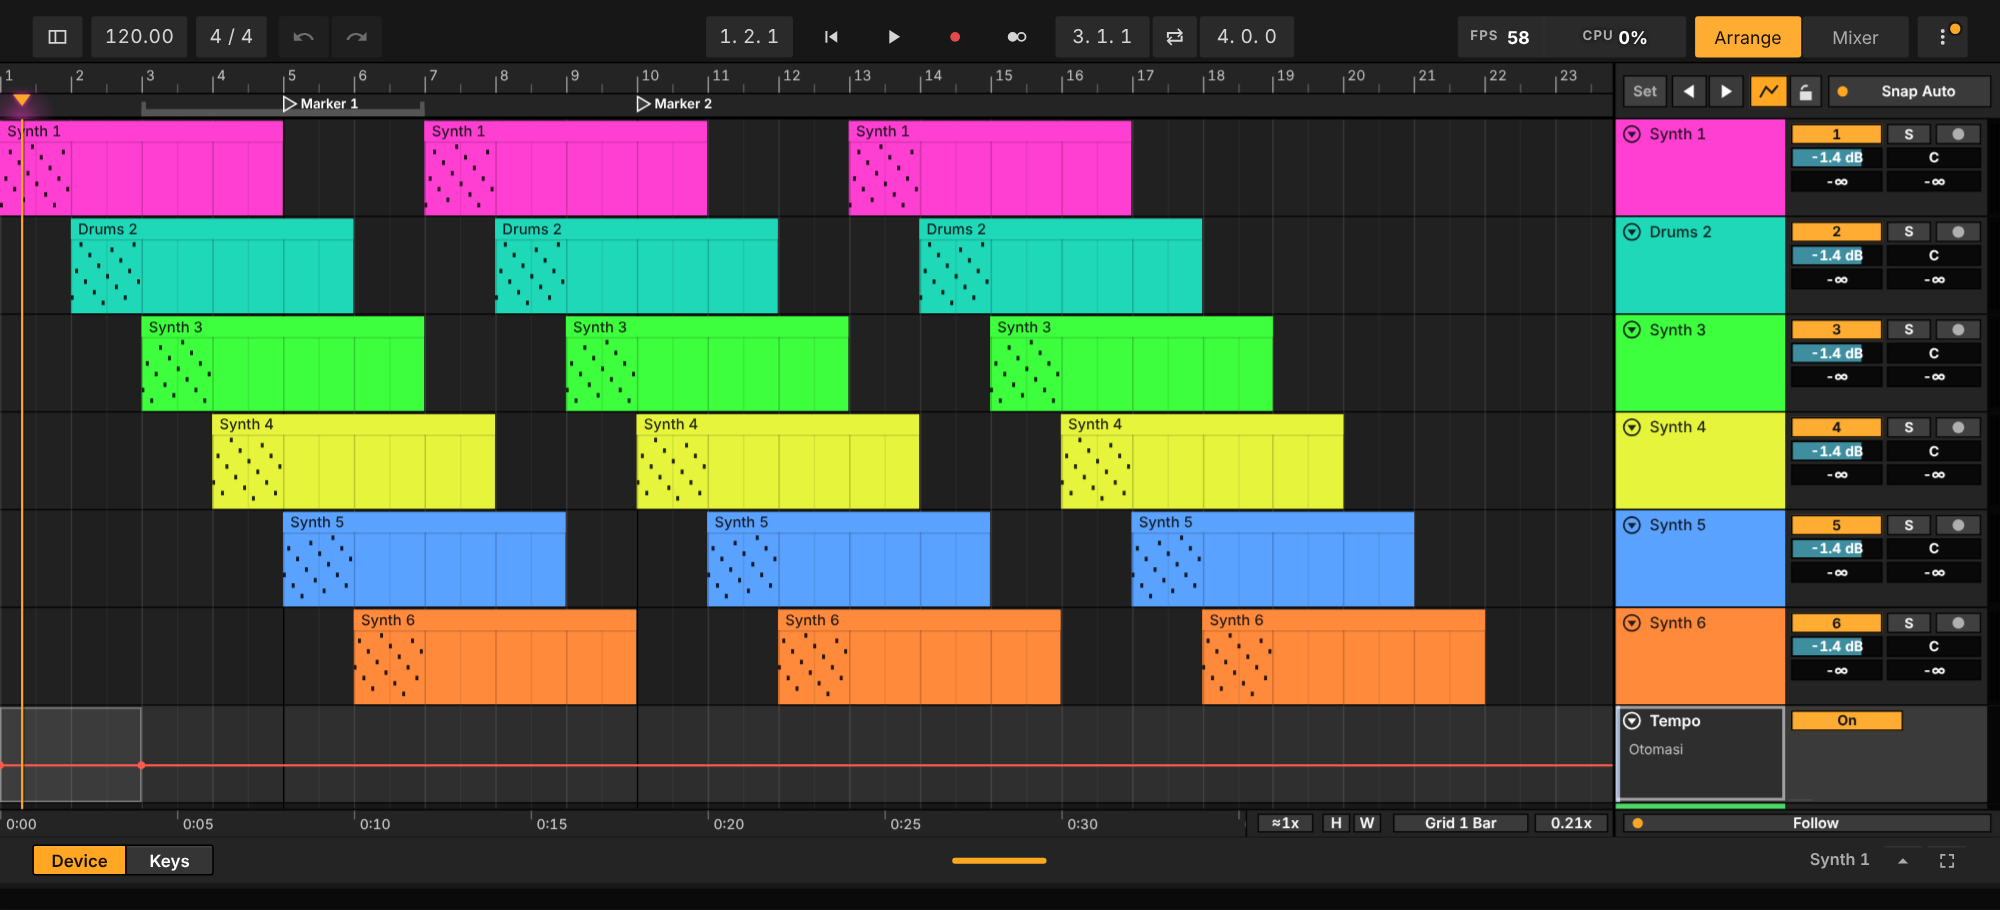
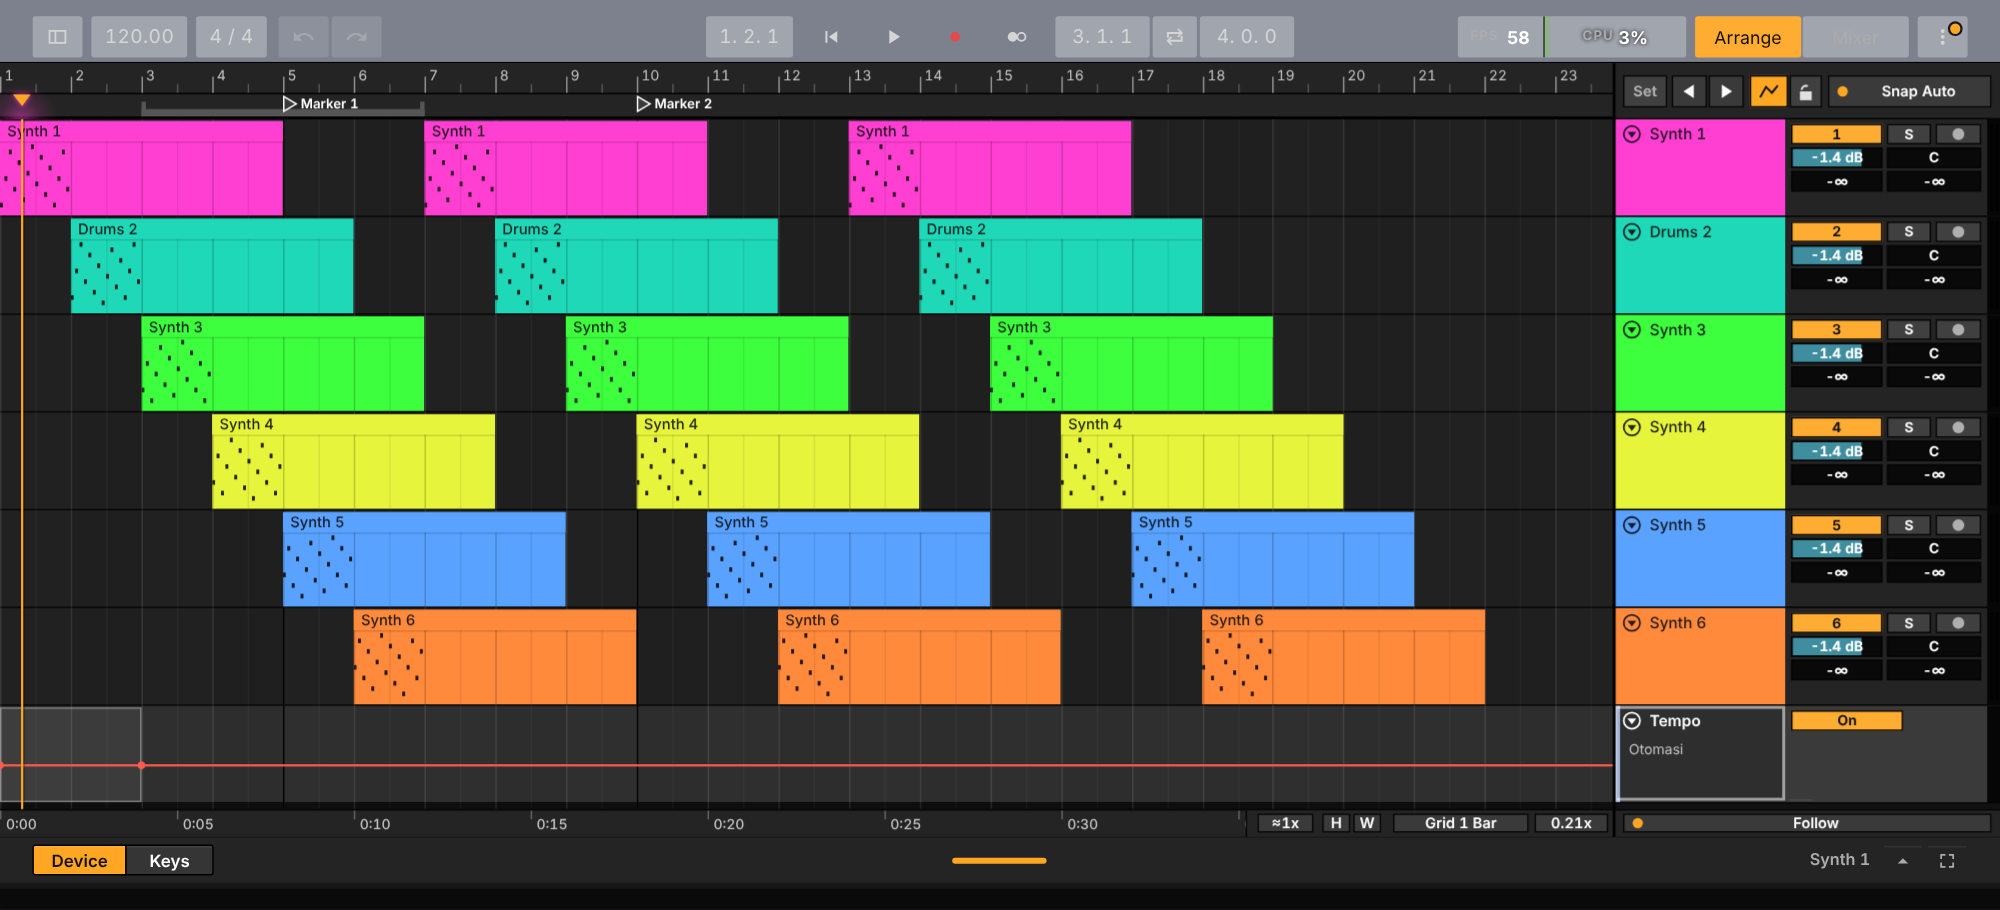
Light theme: thin dark borders and Live 12 light colours; drop area fills the room, Master/FX rows pinned at the bottom
Claude-Session: https://claude.ai/code/session_016R99TjSh2G5U2VqVgMNHhT

Changed region(s): [[0.0, 0.0, 1.0, 0.0923], [0.806, 0.8615, 0.899, 0.8923]]

diff --git a/js/timeline.js b/js/timeline.js
@@ -120,9 +120,24 @@ function laneBox(i, c) {
 }
 function laneAt(i, y) { const t = state.tracks[i], n = subN(t); if (!n) return null; const k = Math.floor((y - rowY(i) - rhMain(i)) / SUBH()); return k >= 0 && k < n ? P.subsOf(t)[k].id : null; }
 function subHdr(i, k) { const y = rowY(i) + rhMain(i) + k * SUBH(), h = SUBH(), q = Math.min(16, h - 8), R = CW + HEAD - METW - 6; return { y, h, mute: { x: R - 22, y: y + (h - q) / 2, w: 22, h: q } }; }   // t.hx = own height as a factor of the zoomed row height (drag the header's bottom edge)
-const rh = (i) => { const n = state.tracks.length; if (i >= n) return i >= n + nX() ? ADD_H : XROW_H; const t = state.tracks[i], a = fh.size ? fh.get(t.id) : undefined; return a !== undefined ? a : rowTarget(t); };
-function rowY(i) { let y = RULER - view.y0; for (let k = 0; k < i; k++) y += rh(k); return y; }
-function rowAt(y) { let a = RULER - view.y0; const n = state.tracks.length + nX(); for (let i = 0; i <= n; i++) { const e = a + rh(i); if (y < e) return i; a = e; } return n + 1; }
+// Live 12: under the tracks the "Drop Files and Devices Here" area stretches over the free room and the Master / effect-track rows sit at the
+// bottom of the lanes (no empty band below them). On screen: tracks, then the "+" row (index nn), then the Master / FX rows (indices n .. nn-1).
+const tracksH = () => { let y = 0; for (let k = 0; k < state.tracks.length; k++) y += rh(k); return y; };
+const addH = () => Math.max(ADD_H, Math.floor(LANE_B() - RULER - tracksH() - nX() * XROW_H));
+const rh = (i) => { const n = state.tracks.length; if (i >= n) return i >= n + nX() ? (i === n + nX() ? addH() : ADD_H) : XROW_H; const t = state.tracks[i], a = fh.size ? fh.get(t.id) : undefined; return a !== undefined ? a : rowTarget(t); };
+function rowY(i) {
+  const n = state.tracks.length, nn = n + nX(); let y = RULER - view.y0;
+  if (i <= n) { for (let k = 0; k < i; k++) y += rh(k); return i === n ? y + addH() : y; }
+  y += tracksH(); if (i === nn) return y;
+  return i < nn ? y + addH() + (i - n) * XROW_H : y + addH() + nX() * XROW_H;
+}
+function visRows() {                                    // rows on screen: visible tracks, then the Master / FX rows and the "+" row (not in index order on screen)
+  const n = state.tracks.length, nn = n + nX(), LB = LANE_B(), out = [], b = rowAt(LB);
+  for (let i = Math.max(0, rowAt(RULER)); i < n && i <= b; i++) out.push(i);
+  for (let i = n; i <= nn; i++) { const y = rowY(i); if (y < LB && y + rh(i) > RULER) out.push(i); }
+  return out;
+}
+function rowAt(y) { let a = RULER - view.y0; const n = state.tracks.length, nn = n + nX(); for (const i of [...Array(n).keys(), nn, ...Array.from({ length: nX() }, (_, k) => n + k)]) { const e = a + rh(i); if (y < e) return i; a = e; } return nn + 1; }
 const contentH = () => { let y = 0; for (let i = 0; i <= state.tracks.length + nX(); i++) y += rh(i); return y; };
 // Header layout of one track. FULL look: left = coloured column (the name only), right = wide grey mixer column (activator, S, arm, automation /
 // volume, pan / Send A, B / output). Controls only appear when the row is tall enough, so nothing can overlap. COMPACT look: name block + activator.
@@ -346,14 +361,14 @@ function draw() {
     ctx.fillStyle = C('#141416'); ctx.fillRect(0, y + h - 1, CW, 1);                     // Live 12 (refs/live12-official): a thin dark line between tracks
   }
   const xl = [];                                                                       // captions of the Master / effect lanes, drawn after the grid
-  for (let i = Math.max(n, rowAt(RULER)); i < nn && i <= rowAt(LB); i++) {             // Master / effect track rows: no clips, they only mix
+  for (const i of visRows()) { if (i < n || i >= nn) continue;                          // Master / effect track rows: no clips, they only mix
     const y = rowY(i), h = rh(i), x = xInfo(i);
     ctx.fillStyle = state.sel.track === x.strip ? C('#2f2f33') : C('#252527'); ctx.fillRect(0, y, CW, h);   // theme background first, so the tint below is a real transparent wash in dark AND light themes
      ctx.fillStyle = C('#141415'); ctx.fillRect(0, y + h - 1, CW, 1);
     const src = x.master ? state.tracks.filter((q) => q.kind !== 'auto' && !q.mute).length : state.tracks.filter((q) => q.out === x.k && !q.mute).length;
     xl.push({ y, h, t: `${src} track aktif → ${x.name}` });
   }
-  const gy1 = Math.min(LB, rowY(nn));                                                   // grid only over the rows, not over the "+" row and the empty space below
+  const gy1 = Math.min(LB, RULER - view.y0 + contentH());                               // Live 12: the grid runs on through the drop area and the Master / FX rows
   // grid (Live 12): flat lines in the theme's ink at four strengths - every labelled bar (the ruler's step) > bar > beat > subdivision - so a
   // zoomed-out arrangement is not striped with bright bar lines; every other labelled group a shade darker. Grid Line Intensity scales them.
   const barPx = BAR * view.ppt; let kb = 1; while (barPx * kb < 34) kb *= 2;                     // the same step as the ruler's bar numbers
@@ -554,7 +569,7 @@ function meterKey() {                        // changes whenever a visible bar w
 function drawMeters() {                      // Live: a slim stereo meter along the right edge of every track header, same scale as the mixer
   const mx = CW + HEAD - METW + 1, nn = state.tracks.length + nX();
   octx.save(); octx.beginPath(); octx.rect(CW, RULER, HEAD, LANE_B() - RULER); octx.clip();
-  for (let i = Math.max(0, rowAt(RULER)); i <= Math.min(nn - 1, rowAt(LANE_B())); i++) {
+  for (const i of visRows()) { if (i >= nn) continue;
     const s = stripOfRow(i); if (s < 0) continue;
     const hm = i < state.tracks.length && full() ? hdr(i).hm : null;
     if (hm) {                                                                     // folded row: the same meter lying flat (left = silence), L over R
@@ -665,8 +680,8 @@ function drawHeads() {
   ctx.save(); ctx.beginPath(); ctx.rect(hx, RULER, HEAD, LB - RULER); ctx.clip();
   const nn = n + nX(), lanes = new Set();
   for (const q of state.tracks) if (q.kind === 'auto' && q.target) lanes.add(q.target.strip);
-  for (let i = Math.max(0, rowAt(RULER)); i <= Math.min(nn, rowAt(LB)); i++) {
-    const y = rowY(i), h = i < n ? rhMain(i) : rh(i);
+  for (const i of visRows()) {
+    const y = rowY(i), h = i < n ? rhMain(i) : rh(i); if (y >= LB || y + h <= RULER) continue;
     if (i < n && subN(state.tracks[i])) drawSubHeads(i);
     if (i === nn) {                                                                          // "+" row: one wide button
       const r = { x: hx + 6, y: y + 8, w: HEAD - METW - 12, h: Math.min(28, h - 16) };
@@ -916,7 +931,7 @@ function hit(x, y) {
   if (Math.abs(x - CW) <= 4) return { type: 'headw' };                                         // the header column's left edge: drag = its width
   if (x >= CW) {
     const n0 = state.tracks.length;
-    if (i === n0 + nX()) return { type: 'add' };
+    if (i === n0 + nX()) return y - rowY(i) < 8 + 28 + 6 ? { type: 'add' } : { type: 'none' };   // the "+ Track" button at the top of the (stretched) drop area
     if (i < 0 || i > n0 + nX()) return { type: 'none' };
     if (i >= n0) { const xi = xInfo(i); return { type: 'xhead', x: xi, mute: !xi.master && inRect(xhdr(i).act, x, y, 3) }; }
     if (subN(state.tracks[i]) && y >= rowY(i) + rhMain(i)) { const id = laneAt(i, y), k = P.subsOf(state.tracks[i]).findIndex((s) => s.id === id); if (k >= 0) return { type: 'subhead', i, id, mute: inRect(subHdr(i, k).mute, x, y, 4) }; }
@@ -1377,7 +1392,7 @@ export function sigDialog(bar) {
 let drag = null;
 const CLIP_EDITS = new Set(['move', 'resize', 'resizeL', 'stretch', 'gmove', 'gresize', 'fadeIn', 'fadeOut']);   // drags that took a checkpoint
 // the arrangement's grid menu as Live's (Snap to Grid, Adaptive Grid widths, Fixed Grid, Narrow / Widen, Triplet Grid, zoom to fit)
-function fitHeight() { const avail = LANE_B() - RULER - ADD_H - nX() * XROW_H, used = contentH() - ADD_H - nX() * XROW_H; if (used > 0) { for (const tr of state.tracks) animRow(tr); view.rowH = clamp(view.rowH * avail / used, 30, ROW_MAX); view.y0 = 0; clampView(); invalidate(); } }
+function fitHeight() { const avail = LANE_B() - RULER - ADD_H - nX() * XROW_H, used = tracksH(); if (used > 0) { for (const tr of state.tracks) animRow(tr); view.rowH = clamp(view.rowH * avail / used, 30, ROW_MAX); view.y0 = 0; clampView(); invalidate(); } }
 function gridMenu() {
   const set = (k) => { cfg.snap = k; invalidate(); }, fi = FIXED.findIndex(([k]) => k === cfg.snap);
   const step = (d) => { const i = fi >= 0 ? fi : FIXED.findIndex(([k]) => SNAPS[k][1] <= (snapTicks() || BAR)); const j = clamp((i < 0 ? 3 : i) + d, 0, FIXED.length - 1); set(FIXED[j][0]); };

diff --git a/js/theme.js b/js/theme.js
@@ -16,17 +16,20 @@ const LIB = {
   medc:     { name: 'Dark Neutral Medium Contrast', base: 'dark', a: 10, b: 0.98 },
   // Live 12's default dark theme (refs/live12-official 01-03): the greys a little lighter and cool - lanes about #2c2e35, panels #23252a
   // Live 12's light theme (refs/live12-official 04): cool greys - lanes / ruler / header #a1a5ae, the alternate bands #989ca5
-  live12light: { name: 'Light (Live 12)', base: 'light', a: -33, b: 1.0, tint: [0, 4, 13] },
-  live12:   { name: 'Dark (Live 12)', base: 'dark', a: 10, b: 0.96, tint: [-2, 0, 12] },   // lanes / ruler #323440 as sampled from refs/live12-official/02
+  live12light: { name: 'Light (Live 12)', base: 'light', a: -33, b: 1.0, tint: [0, 4, 13], over: { '--line': '#5c5f68', '--sep': '#6e717a' } },
+  live12:   { name: 'Dark (Live 12)', base: 'dark', a: 10, b: 0.96, tint: [-2, 0, 12], over: { '--tb-bg': '#282a33', '--tb-fld': '#333540' } },   // lanes / ruler #323440 as sampled from refs/live12-official/02
   lightmc:  { name: 'Light Neutral Medium Contrast', base: 'light', a: -26, b: 1.04 },
   lightlc:  { name: 'Light Neutral Low Contrast', base: 'light', a: -8, b: 0.86 },
   midlight: { name: 'Mid Light',                base: 'light', a: -42, b: 1.0 },
   lighthc:  { name: 'Light Neutral High Contrast', base: 'light', a: -14, b: 1.1 },
   // the device panels of the owner's Ableton Live screenshots, colours measured in them: title bar #a5a5a5, body #878787, dark display #282828,
   // button face #a8a8a8 with a #515151 border, black text, orange #fdb443; the other greys follow the light theme shifted down to that body
-  ableton:  { name: 'Light (Ableton Live)',  base: 'light', a: -66, b: 1.0, over: {
-    '--lv-title': '#a5a5a5', '--lv-body': '#878787', '--lv-well': '#282828', '--lv-ctl': '#a8a8a8', '--lv-ctl2': '#b8b8b8', '--lv-ink': '#0f0f0f', '--lv-dim': '#2e2e2e', '--lv-edge': '#515151',
-    '--lv-trk': '#4e4e4e', '--lv-div': '#6a6a6a', '--lv-arc': '#62cffa', '--lv-or': '#fdb443', '--lv-orink': '#1a1100', '--dim': '#2e2e2e', '--text': '#0f0f0f' } },
+  // Light = Live 12's light theme, every value sampled from the owner's reference (refs/live12-official/04): window frame and control bar #7d818d,
+  // panels / lanes / ruler / device bodies #a1a5ae, the alternate bands #989ca5, device title bars #bbbbc5, displays #21252e, menus #dedfe3
+  ableton:  { name: 'Light (Ableton Live)',  base: 'light', a: -33, b: 1.0, tint: [0, 4, 13], over: {
+    '--lv-title': '#bbbbc5', '--lv-body': '#a1a5ae', '--lv-well': '#21252e', '--lv-ctl': '#b9bcc5', '--lv-ctl2': '#c6c9d1', '--lv-ink': '#0f1014', '--lv-dim': '#2e3038', '--lv-edge': '#7d818d',
+    '--lv-trk': '#4e525c', '--lv-div': '#7d818d', '--lv-arc': '#05c9d9', '--lv-or': '#fdb443', '--lv-orink': '#1a1100', '--dim': '#2e3038', '--text': '#0f1014',
+    '--menu': '#dedfe3', '--tb-bg': '#7d818d', '--tb-fld': '#a1a5ae', '--line': '#5c5f68', '--sep': '#6e717a' } },
 };
 const grey = (hex) => { const h = hex.slice(1, 7), [r, g, b] = [0, 2, 4].map((i) => parseInt(h.slice(i, i + 2), 16)); return Math.max(r, g, b) - Math.min(r, g, b) < 14 ? (r + g + b) / 3 : -1; };
 for (const [id, t] of Object.entries(LIB)) {

diff --git a/sw.js b/sw.js
@@ -1,5 +1,5 @@
 // Offline cache. The cache name contains a hash of every file, so a new deploy replaces the old cache automatically.
-const CACHE = 'mobiledaw-3328d7c2e5f0';
+const CACHE = 'mobiledaw-3d413d44ba2b';
 const ASSETS = ["./", "./css/app.css", "./css/ableton.css", "./css/float.css", "./css/live.css", "./icons/icon-192.png", "./icons/icon-512.png", "./icons/icon-maskable-512.png", "./index.html", "./js/about.js", "./js/aboutdata.js", "./js/audioedit.js", "./js/autocurve.js", "./js/automate.js", "./js/autosave.js", "./js/browser.js", "./js/chords.js", "./js/colorpick.js", "./js/defs.js", "./js/demos.js", "./js/devices.js", "./js/devviz.js", "./js/drumpad.js", "./js/edgeguard.js", "./js/editor.js", "./js/engine.js", "./js/engine/analog.js", "./js/engine/audioops.js", "./js/engine/cmdtext.js", "./js/engine/core.js", "./js/engine/dsp.js", "./js/engine/drift.js", "./js/engine/ds.js", "./js/engine/fx.js", "./js/engine/fx2.js", "./js/engine/fx3.js", "./js/engine/fx4.js", "./js/engine/fx5.js", "./js/engine/fx6.js", "./js/engine/fx7.js", "./js/engine/fx8.js", "./js/engine/granulator.js", "./js/engine/impulse.js", "./js/engine/instruments.js", "./js/engine/live.js", "./js/engine/meld.js", "./js/engine/meter.js", "./js/engine/mp3.js", "./js/engine/mp3tables.js", "./js/engine/nativesink.js", "./js/engine/operator.js", "./js/engine/phys.js", "./js/engine/poli.js", "./js/engine/sabio.js", "./js/engine/sf2.js", "./js/engine/simpler.js", "./js/engine/flmsyn.js", "./js/engine/hdgms.js", "./js/engine/hdmfx.js", "./js/engine/hdmini.js", "./js/engine/hdsaw.js", "./js/engine/smf.js", "./js/engine/stretchworker.js", "./js/engine/tmap.js", "./js/engine/wav.js", "./js/engine/waveops.js", "./js/engine/mdaw.wasm", "./js/engine/wasmengine.js", "./js/engine/web.js", "./js/engine/worklet-wasm.js", "./js/engine/worklet.js", "./js/floatwin.js", "./js/fps.js", "./js/fxviz.js", "./js/fxkit.js", "./js/flmpanels.js", "./js/flmfx.js", "./js/flm3osc.js", "./js/flmlayout.js", "./js/flmlive.js", "./js/slicerdetect.js", "./js/fxlaw.js", "./js/flmviz.js", "./js/gesture.js", "./js/history.js", "./js/import/als.js", "./js/import/build.js", "./js/import/flm.js", "./js/import/flp.js", "./js/import/fxmap.js", "./js/import/gm.js", "./js/import/index.js", "./js/import/ui.js", "./js/keymap.js", "./js/keys.js", "./js/layout.js", "./js/liveinst.js", "./js/liveui.js", "./js/log.js", "./js/main.js", "./js/midi.js", "./js/midiio.js", "./js/minimeters.js", "./js/mmdraw.js", "./js/native.js", "./js/perf.js", "./js/mixer.js", "./js/prefs.js", "./js/presetlib.js", "./js/presets.js", "./js/project.js", "./js/projects.js", "./js/pwa.js", "./js/quicksave.js", "./js/reorder.js", "./js/safdir.js", "./js/settingsui.js", "./js/storage.js", "./js/tempo.js", "./js/theme.js", "./js/timeline.js", "./js/topbar.js", "./js/touchhit.js", "./js/ui.js", "./js/uiscale.js", "./js/waveform.js", "./js/zip.js", "./manifest.json"];
 self.addEventListener('install', (e) => { e.waitUntil(caches.open(CACHE).then((c) => c.addAll(ASSETS)).then(() => self.skipWaiting())); });
 self.addEventListener('activate', (e) => {

diff --git a/css/ableton.css b/css/ableton.css
@@ -1790,3 +1790,9 @@ html.reduce-motion .lk-tabpg, html.reduce-motion .flm-pg > *, html.reduce-motion
 [data-w="s"] #top .grp.lvloop, [data-w="xs"] #top .grp.lvloop, [data-w="xs"] #rd-sig2, [data-w="xs"] #rd-pos2 { display: none; }
 #top .readout, #top-l #rd-bpm, [data-theme="light"] #top-l #rd-bpm { color: color-mix(in srgb, var(--text) 82%, var(--panel)); font-size: 13px; }
 #top .seg .b { font-weight: var(--fw-r); }
+/* control bar colours per theme (Live 12: the light theme's bar is the dark frame grey #7d818d with #a1a5ae fields) */
+#top, [data-theme="light"] #top { background: var(--tb-bg, var(--panel)); box-shadow: none; }
+#top .b.ic, #top .grp .b, #top .grp .b:first-child, #top .grp .b:last-child, #top .readout, #top-l #rd-bpm, #top .perf, #top .seg .b:not(.on) { background: var(--tb-fld, color-mix(in srgb, var(--panel) 92%, #fff 8%)); }
+/* Light theme (Live 12 light reference): every toolbar field / button carries a thin dark outline */
+[data-theme="light"] #top .b.ic, [data-theme="light"] #top .grp .b, [data-theme="light"] #top .readout, [data-theme="light"] #top-l #rd-bpm,
+[data-theme="light"] #top .perf, [data-theme="light"] #top .seg .b { box-shadow: inset 0 0 0 1px var(--line); }

diff --git a/docs/HANDOFF.md b/docs/HANDOFF.md
@@ -777,3 +777,5 @@ Permintaan pemilik: SEMUA efek dan instrumen diganti dengan set stok Ableton Liv
   Modul dengan grup kembar (Band EQ, Low/Mid/High, Arp 1/2, Wow/Flutter/Random, Osc 1-3, LFO/Envelope 3x Osc) memakai satu kolom bertajuk per grup (switch dalam satu baris, menu di bawah judul; banyak menu = baris label + menu dua kolom). `lk-notab`: card tidak dipecah tab oleh rak.
   Label disingkat seperti Live (`flmShort`, `flmSwitch`); Sync seperti Live; not = keyboard piano; Pitcher / Pitcher 2: keyboard display bisa diketuk. Lembar screenshot: `docs/redesign/flmfx/cards-*.png`.
 - `fxlaw.js menuItem` kini membandingkan dengan breakpoint f32 (`f(b)`): breakpoint dicetak sebagai f32 terpendek (0.7 = 0.699999988). Modul tambahan Honeydew (bukan FLM) sengaja tidak diport (keputusan pemilik).
+- Tema terang = warna sampel dari referensi Live 12 light (pemilik 2026-11-16): toolbar `--tb-bg #7d818d` dengan field `--tb-fld #a1a5ae`, lane/header/body device #a1a5ae, judul device #bbbbc5, display #21252e, menu #dedfe3. Border tipis gelap: `--line #5c5f68`, `--sep #6e717a` (canvas memetakan garis lewat anchor `--line`), field toolbar memakai `box-shadow: inset 0 0 0 1px var(--line)` (css/ableton.css).
+- Arrangement seperti Live 12: area "Seret file dan device ke sini" (baris "+", indeks nn) melebar mengisi ruang kosong di bawah track, baris Master / FX menempel di dasar lane, grid berlanjut sampai bawah. Urutan di layar: track, baris "+", Master/FX (tidak urut indeks) — pakai `rowY`/`rowAt`/`visRows()` di timeline.js, jangan menjumlah `rh()` sendiri. Tombol "+ Track" hanya bagian atas baris itu.
